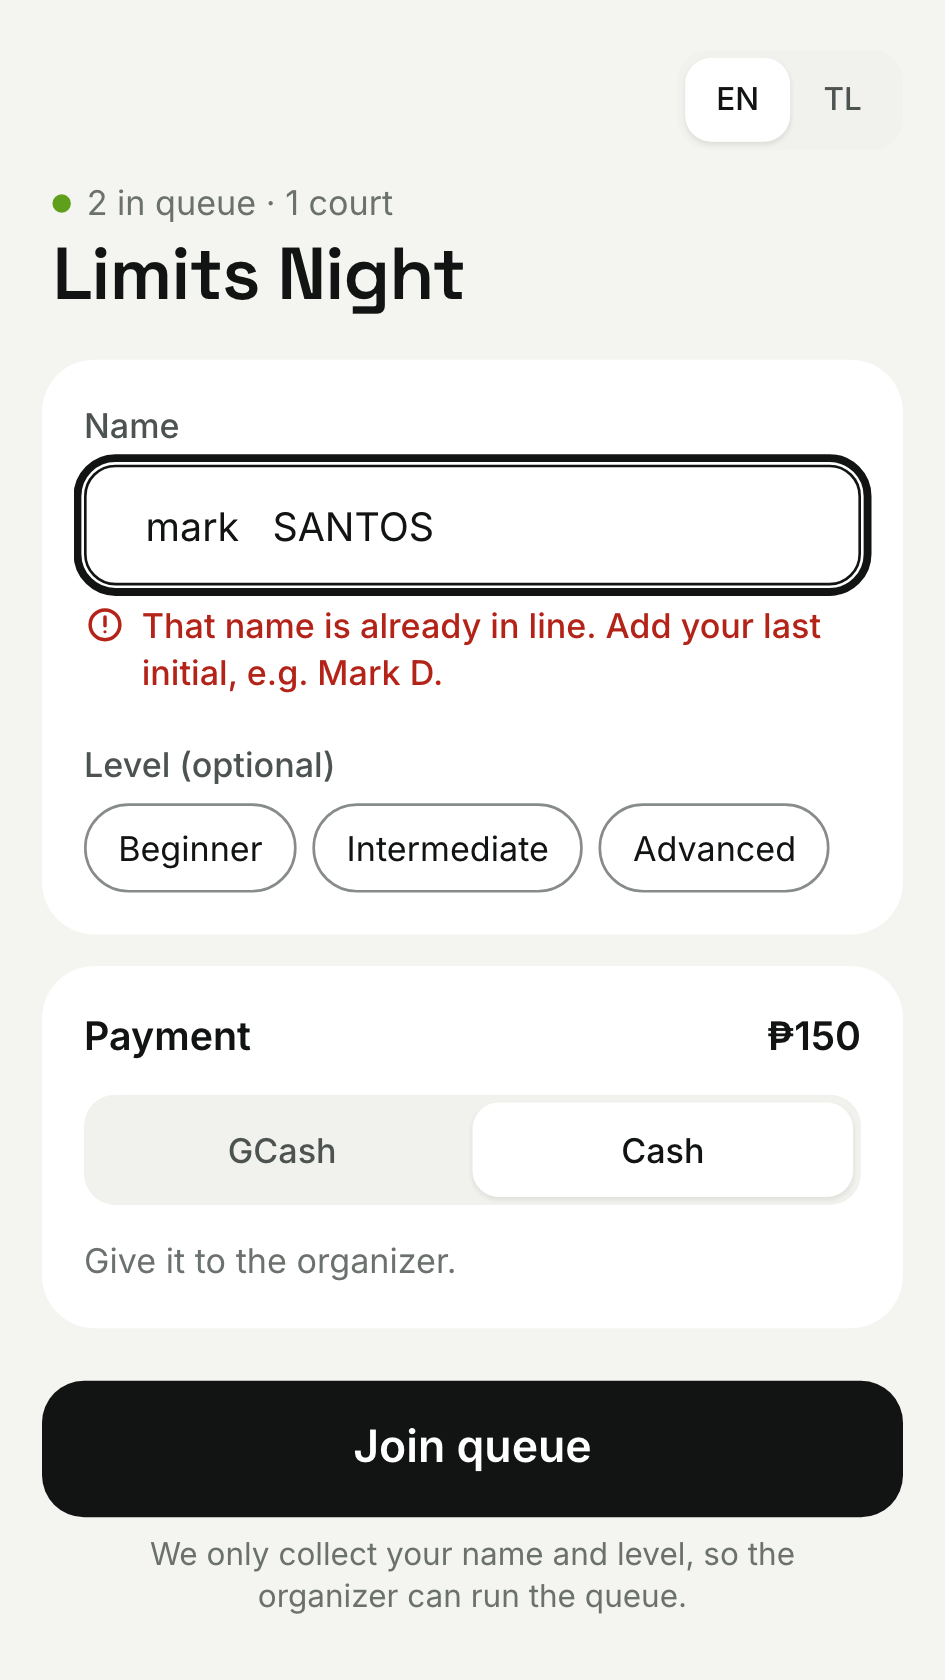
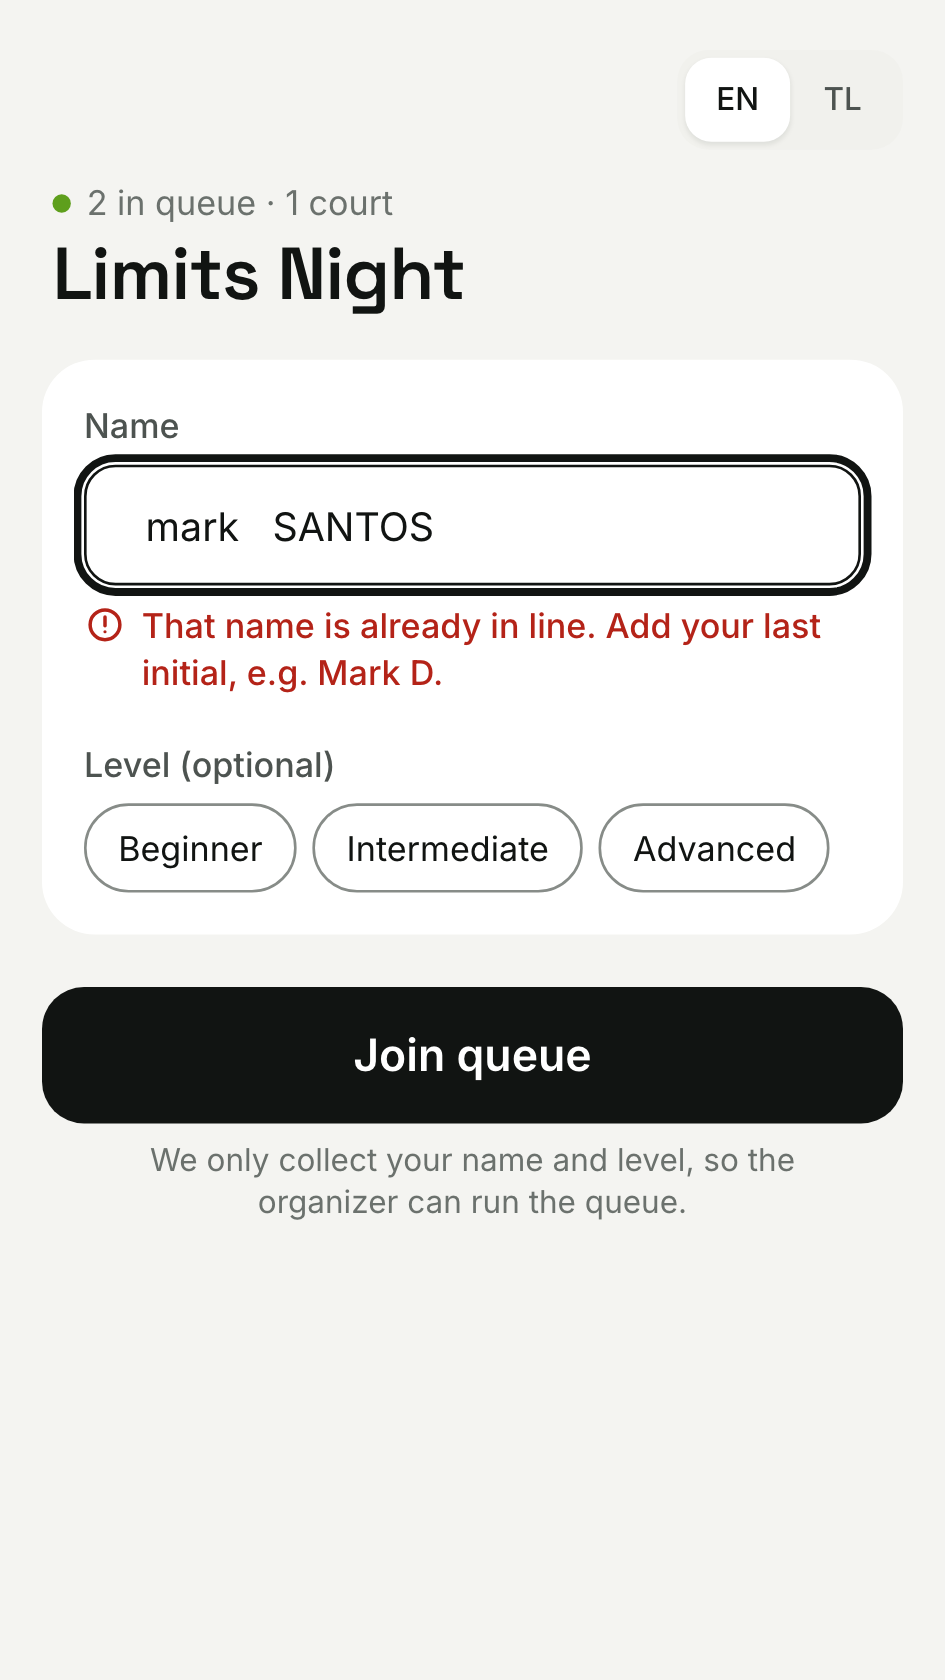
QA-06: no payment details in the code preview; codes can be 8 characters
The public check-in preview returned the club's GCash name and number (and
the fee) to anyone holding a 6-character code, and codes can be guessed at
about 750 per second.

- checkin_preview returns null for fee, pay_first, gcash_name and
  gcash_number (same columns and signature). Players see them on My place
  after check-in, where they send the GCash reference; the check-in page
  no longer has a payment step (BR13 now happens after joining).
- Codes: 31 unambiguous characters. 6 chars = 887,503,681 codes; 8 chars =
  852,891,037,441 (about 961x more guesses per hit). New join and club
  codes follow private.code_settings (6 or 8, starts at 6 because the app on
  main accepts only 6). Format checks accept 6 or 8; existing codes keep
  working. After deploying this app, switch with:
    update private.code_settings set join_code_length = 8, entry_code_length = 8;
- normalizeJoinCode accepts 6 or 8 characters.

Tests: pgTAP 20_qa06_codes (13_payments updated for the null preview);
unit qr.test.ts; e2e payments/dry-run/courts-alerts and the other check-in
flows now pay on My place.

Changed region(s): [[0.0307, 0.5881, 0.982, 0.7738], [0.0307, 0.8048, 0.982, 0.9595]]

diff --git a/e2e/payments.spec.ts b/e2e/payments.spec.ts
@@ -10,18 +10,29 @@ async function phone(browser: Browser): Promise<Page> {
   return page;
 }
 
-async function checkIn(player: Page, path: string, name: string, pay: { reference?: string; cash?: boolean }) {
+/**
+ * QA-06: the check-in page (open to anyone with the code) shows no payment
+ * details. After joining, My place shows the fee, the hold and the club's
+ * GCash, and takes the reference.
+ */
+async function checkIn(player: Page, path: string, name: string, pay: { reference?: string } = {}) {
   await player.goto(path);
-  await expect(player.getByRole("heading", { name: "Payment" })).toBeVisible();
-  await expect(player.getByText("₱150", { exact: true })).toBeVisible();
-  await expect(player.getByText("Pay before you can be called.")).toBeVisible();
-  await expect(player.getByText(/Juan Dela Cruz/)).toBeVisible();
+  await expect(player.getByRole("button", { name: "Join queue" })).toBeVisible();
+  await expect(player.getByRole("heading", { name: "Payment" })).toHaveCount(0);
+  await expect(player.getByText(/Juan Dela Cruz|0917 123 4567/)).toHaveCount(0);
   await player.getByLabel("Name", { exact: true }).fill(name);
-  if (pay.reference) await player.getByLabel("GCash reference no.").fill(pay.reference);
-  if (pay.cash) await player.getByRole("radio", { name: "Cash", exact: true }).check();
   await player.getByRole("button", { name: "Join queue" }).click();
   await expect(player.getByRole("heading", { level: 1, name: `Hi, ${name.split(" ")[0]}` })).toBeVisible();
   await expect(player.locator('[data-live-sync="connected"]')).toBeVisible();
+  await expect(player.locator("[data-payment]")).toContainText("Payment · ₱150");
+  await expect(player.getByText("You'll be skipped until you pay.")).toBeVisible();
+  if (pay.reference) {
+    await player.getByRole("button", { name: "Add GCash reference" }).click();
+    await expect(player.getByText(/Juan Dela Cruz/)).toBeVisible();
+    await expect(player.getByText("0917 123 4567")).toBeVisible();
+    await player.getByLabel("GCash reference no.").fill(pay.reference);
+    await player.getByRole("button", { name: "Send reference" }).click();
+  }
 }
 
 function paymentLine(player: Page) {
@@ -62,7 +73,7 @@ test("pay first: GCash (to check) gets called, cash is held until received on Pa
   await addWalkIn(organizer, "Cash Two", "Beginner", { choice: "Paid cash" });
 
   await organizer.getByRole("link", { name: "Show QR" }).click();
-  const path = new URL((await organizer.getByText(/\/j\/[A-Z2-9]{6}$/).textContent())!).pathname;
+  const path = new URL((await organizer.getByText(/\/j\/[A-Z2-9]{6}(?:[A-Z2-9]{2})?$/).textContent())!).pathname;
   await organizer.goto(`${courtsUrl}/queue`);
 
   // Ana pays by GCash (to check); Ben will pay cash (held).
@@ -70,8 +81,8 @@ test("pay first: GCash (to check) gets called, cash is held until received on Pa
   await checkIn(ana, path, "Ana Phone", { reference: "1234 5678 90" });
   await expect(paymentLine(ana)).toHaveText(/GCash · waiting for the organizer/);
   const ben = await phone(browser);
-  await checkIn(ben, path, "Ben Phone", { cash: true });
-  await expect(paymentLine(ben)).toHaveText(/Cash · give it to the organizer/);
+  await checkIn(ben, path, "Ben Phone");
+  await expect(paymentLine(ben)).toHaveText(/Not paid yet/);
   await expect(ben.getByText("You'll be skipped until you pay.")).toBeVisible();
 
   // Queue: unpaid players are On hold with "Unpaid"; Ana (to check) is not.
@@ -112,7 +123,7 @@ test("pay first: GCash (to check) gets called, cash is held until received on Pa
   // Remind copies the reminder; then Ben's cash is received.
   const unpaid = organizer.getByRole("region", { name: "Unpaid", exact: true });
   const benRow = unpaid.getByRole("group", { name: "Ben Phone" });
-  await expect(benRow.getByText("Paying cash")).toBeVisible();
+  await expect(benRow.getByText("Must pay before being called")).toBeVisible();
   await benRow.getByRole("button", { name: "Remind Ben Phone" }).click();
   await expect(status(organizer, "Reminder for Ben Phone copied.")).toBeVisible();
   expect(await organizer.evaluate(() => navigator.clipboard.readText())).toBe(
@@ -125,8 +136,8 @@ test("pay first: GCash (to check) gets called, cash is held until received on Pa
   // D18: "Undo" reverses the last Received (cash still chosen), then it's received again.
   await organizer.getByRole("button", { name: /^Undo \(\d+s\)$/ }).click();
   await expect(status(organizer, "Ben Phone's payment is back to how it was.")).toBeVisible();
-  await expect(paymentLine(ben)).toHaveText(/Cash · give it to the organizer/, { timeout: 2_000 });
-  await expect(benRow).toContainText("Paying cash");
+  await expect(paymentLine(ben)).toHaveText(/Not paid yet/, { timeout: 2_000 });
+  await expect(benRow).toContainText("Must pay before being called");
   await benRow.getByRole("button", { name: "Cash received from Ben Phone" }).click();
   await expect(paymentLine(ben)).toHaveText(/Paid/, { timeout: 2_000 });
   await expect(organizer.getByTestId("payment-counts")).toHaveText("4 paid · 1 to check · 1 unpaid · ₱150 each");
@@ -167,7 +178,7 @@ test("a free session has no payment step", async ({ page: organizer, browser }) 
   await expect(organizer).toHaveURL(/\/queue$/);
 
   await organizer.getByRole("link", { name: "Show QR" }).click();
-  const path = new URL((await organizer.getByText(/\/j\/[A-Z2-9]{6}$/).textContent())!).pathname;
+  const path = new URL((await organizer.getByText(/\/j\/[A-Z2-9]{6}(?:[A-Z2-9]{2})?$/).textContent())!).pathname;
   const player = await phone(browser);
   await player.goto(path);
   await expect(player.getByRole("button", { name: "Join queue" })).toBeVisible();

diff --git a/scripts/ui-audit/ui-audit.spec.ts b/scripts/ui-audit/ui-audit.spec.ts
@@ -71,19 +71,26 @@ async function phone(browser: Browser): Promise<Page> {
   return (await browser.newContext(PHONE)).newPage();
 }
 
+/** Check in; a GCash reference is sent on My place after joining (QA-06). "cash" just means: hasn't paid yet. */
 async function checkIn(player: Page, joinPath: string, name: string, pay: { reference?: string; cash?: boolean }, level?: string) {
   await player.goto(joinPath);
   await player.getByLabel("Name", { exact: true }).fill(name);
   if (level) await player.getByRole("radio", { name: level, exact: true }).check();
-  if (pay.reference) await player.getByLabel("GCash reference no.").fill(pay.reference);
-  if (pay.cash) await player.getByRole("radio", { name: "Cash", exact: true }).check();
   await player.getByRole("button", { name: "Join queue" }).click();
   await expect(player.getByRole("heading", { level: 1, name: `Hi, ${name.split(" ")[0]}` })).toBeVisible();
+  if (pay.reference) await sendReference(player, pay.reference);
+}
+
+async function sendReference(player: Page, reference: string) {
+  await player.getByRole("button", { name: "Add GCash reference" }).click();
+  await player.getByLabel("GCash reference no.").fill(reference);
+  await player.getByRole("button", { name: "Send reference" }).click();
+  await expect(player.locator('[data-payment="pending"]')).toBeVisible();
 }
 
 async function joinPathOf(organizer: Page, courtsUrl: string): Promise<string> {
   await organizer.getByRole("link", { name: "Show QR" }).click();
-  const joinPath = new URL((await organizer.getByText(/\/j\/[A-Z2-9]{6}$/).textContent())!).pathname;
+  const joinPath = new URL((await organizer.getByText(/\/j\/[A-Z2-9]{6}(?:[A-Z2-9]{2})?$/).textContent())!).pathname;
   await organizer.goto(courtsUrl);
   return joinPath;
 }
@@ -162,7 +169,7 @@ test("UI audit: seed a busy club and capture every screen", async ({ page: organ
   }).toPass({ timeout: 30_000 });
   const inviteUrl = (await inviteText.textContent())!;
   await organizer.goto("/settings/qr");
-  const clubQrPath = new URL((await organizer.getByText(/\/c\/[A-Z2-9]{6}$/).textContent())!).pathname;
+  const clubQrPath = new URL((await organizer.getByText(/\/c\/[A-Z2-9]{6}(?:[A-Z2-9]{2})?$/).textContent())!).pathname;
 
   const coOrganizer = await (await browser.newContext(PHONE)).newPage();
   await signInNewOrganizer(coOrganizer, uniqueEmail("audit-organizer"));
@@ -235,9 +242,9 @@ test("UI audit: seed a busy club and capture every screen", async ({ page: organ
   await ana.goto(joinPath);
   await expect(ana.getByRole("button", { name: "Join as Ana Lopez" })).toBeVisible();
   await shot(ana, "22-checkin-pumila-bilang", "Check-in (returning: Join as)");
-  await ana.getByLabel("GCash reference no.").fill("1012 3456 7890");
   await ana.getByRole("button", { name: "Join as Ana Lopez" }).click();
   await expect(ana.getByRole("heading", { level: 1, name: "Hi, Ana" })).toBeVisible();
+  await sendReference(ana, "1012 3456 7890");
 
   const ben = await phone(browser);
   await ben.goto(joinPath);

diff --git a/e2e/fewer-steps.spec.ts b/e2e/fewer-steps.spec.ts
@@ -17,7 +17,7 @@ async function openClubQr(organizer: Page) {
 
 /** The club QR link ("QR link"), as a path. */
 async function clubQrPath(organizer: Page): Promise<string> {
-  const link = organizer.getByRole("region", { name: "Club QR code" }).getByText(/\/c\/[A-Z2-9]{6}$/);
+  const link = organizer.getByRole("region", { name: "Club QR code" }).getByText(/\/c\/[A-Z2-9]{6}(?:[A-Z2-9]{2})?$/);
   return new URL((await link.textContent())!).pathname;
 }
 
@@ -61,7 +61,7 @@ test("club QR: prints, opens the live session, says when nothing is live, and ca
   await organizer.goto("/");
   await startSession(organizer, "Saturday Open Play", { courts: 1 });
   await player.goto(path);
-  await expect(player).toHaveURL(/\/j\/[A-Z2-9]{6}$/);
+  await expect(player).toHaveURL(/\/j\/[A-Z2-9]{6}(?:[A-Z2-9]{2})?$/);
   await expect(player.getByRole("heading", { level: 1, name: "Saturday Open Play" })).toBeVisible();
   await expect(player.getByRole("button", { name: "Join queue" })).toBeVisible();
 
@@ -167,21 +167,19 @@ test("a returning player checks in with one tap: Join as …", async ({ page: or
   await expect(player.getByRole("heading", { level: 1, name: "Last Week" })).toBeVisible();
   await player.getByLabel("Name", { exact: true }).fill("Rina Reyes");
   await player.getByRole("radio", { name: "Intermediate" }).check();
-  await player.getByRole("radio", { name: "Cash", exact: true }).check();
   await player.getByRole("button", { name: "Join queue" }).click();
   await expect(player.getByRole("heading", { level: 1, name: "Hi, Rina" })).toBeVisible();
   await endSession(organizer);
 
-  // This week: same phone, same QR. One tap (plus the payment choice, since there's a fee).
+  // This week: same phone, same QR. One tap (payment details are on My place after joining, QA-06).
   await organizer.goto("/");
   await startSession(organizer, "This Week", { courts: 1 });
   await player.goto(path);
   await expect(player.getByRole("heading", { level: 1, name: "This Week" })).toBeVisible();
   await expect(player.getByText("Intermediate")).toBeVisible();
   await expect(player.getByLabel("Name", { exact: true })).toHaveCount(0);
-  await expect(player.getByRole("heading", { name: "Payment" })).toBeVisible();
+  await expect(player.getByRole("heading", { name: "Payment" })).toHaveCount(0);
   await expect(player.getByRole("button", { name: "Not Rina Reyes?" })).toBeVisible();
-  await player.getByRole("radio", { name: "Cash", exact: true }).check();
   await player.getByRole("button", { name: "Join as Rina Reyes" }).click();
   await expect(player.getByRole("heading", { level: 1, name: "Hi, Rina" })).toBeVisible();
   await openTab(organizer, "Queue");

diff --git a/e2e/dry-run.spec.ts b/e2e/dry-run.spec.ts
@@ -26,19 +26,24 @@ test("dry run: a full session from members and phones to the summary and CSV", a
   await expect(organizer).toHaveURL(SESSION_URL);
   const courtsUrl = organizer.url();
   await organizer.getByRole("link", { name: "Show QR" }).click();
-  const path = new URL((await organizer.getByText(/\/j\/[A-Z2-9]{6}$/).textContent())!).pathname;
+  const path = new URL((await organizer.getByText(/\/j\/[A-Z2-9]{6}(?:[A-Z2-9]{2})?$/).textContent())!).pathname;
   await organizer.goto(courtsUrl);
 
-  // Phones first: 3 GCash (to check counts as paid), 1 cash (held until received).
+  // Phones first: 3 send a GCash reference on My place after joining (to check counts as paid),
+  // 1 doesn't pay yet (held until the organizer receives cash). Payment isn't on check-in (QA-06).
   const phones = new Map<string, Page>();
   for (const [index, name] of PHONES.entries()) {
     const phone = await (await browser.newContext()).newPage();
     await phone.goto(path);
     await phone.getByLabel("Name", { exact: true }).fill(name);
-    if (index < 3) await phone.getByLabel("GCash reference no.").fill(`90000000${index + 10}`);
-    else await phone.getByRole("radio", { name: "Cash", exact: true }).check();
     await phone.getByRole("button", { name: "Join queue" }).click();
     await expect(phone.getByRole("heading", { level: 1, name: `Hi, ${name.split(" ")[0]}` })).toBeVisible();
+    if (index < 3) {
+      await phone.getByRole("button", { name: "Add GCash reference" }).click();
+      await phone.getByLabel("GCash reference no.").fill(`90000000${index + 10}`);
+      await phone.getByRole("button", { name: "Send reference" }).click();
+      await expect(phone.locator('[data-payment="pending"]')).toBeVisible();
+    }
     phones.set(name, phone);
   }
   // 14 regulars, picked from members, paid in cash.
@@ -108,7 +113,7 @@ test("dry run: a full session from members and phones to the summary and CSV", a
   expect(lines).toHaveLength(20);
   expect(lines[1]).toMatch(/^Pia Phone,Not sure,Phone,\d+,To check,GCash,9000000010,\d{4}-\d{2}-\d{2} \d{2}:\d{2}$/);
   expect(lines.filter((l) => /^Member \d\d,Intermediate,Walk-in,\d+,Paid,Cash,,/.test(l))).toHaveLength(14);
-  expect(lines[4]).toMatch(/^Sol Phone,Not sure,Phone,0,Unpaid,Cash,,/);
+  expect(lines[4]).toMatch(/^Sol Phone,Not sure,Phone,0,Unpaid,,,/);
   // The peso cell has commas, so it is quoted.
   expect(lines[19]).toMatch(/^Total,,18 players,\d+,14 paid · 3 to check · 0 unpaid,"₱2,100 of ₱2,550",,$/);
 

diff --git a/e2e/players.spec.ts b/e2e/players.spec.ts
@@ -22,7 +22,7 @@ async function playerPhone(browser: Browser): Promise<Page> {
 
 async function joinLink(organizer: Page): Promise<string> {
   await organizer.getByRole("link", { name: "Show QR" }).click();
-  const link = (await organizer.getByText(/\/j\/[A-Z2-9]{6}$/).textContent())!;
+  const link = (await organizer.getByText(/\/j\/[A-Z2-9]{6}(?:[A-Z2-9]{2})?$/).textContent())!;
   await organizer.getByRole("link", { name: "Courts" }).click();
   return new URL(link).pathname;
 }
@@ -31,7 +31,6 @@ async function checkIn(player: Page, path: string, name: string) {
   await player.goto(path);
   await player.getByLabel("Name", { exact: true }).fill(name);
   // Phase 5 (BR13): with a fee, pick GCash or cash. These sessions don't use pay_first.
-  await player.getByRole("radio", { name: "Cash", exact: true }).check();
   await player.getByRole("button", { name: "Join queue" }).click();
   await expect(player).toHaveURL(new RegExp(`${path}/me$`));
   await expect(player.getByRole("heading", { level: 1, name: `Hi, ${name.split(" ")[0]}` })).toBeVisible();
@@ -106,8 +105,7 @@ test("a player checks in by link, gets called, swaps out, pauses, leaves, rejoin
   await expect(player.getByRole("heading", { level: 1, name: "Thanks for playing!" })).toBeVisible();
   await expect(queueRows(organizer).getByText("Pia Cruz")).toHaveCount(0, { timeout: 2_000 });
   await player.getByRole("link", { name: "Join again" }).click();
-  // D18: this phone is remembered, so re-joining is one tap (plus the payment choice).
-  await player.getByRole("radio", { name: "Cash", exact: true }).check();
+  // D18: this phone is remembered, so re-joining is one tap (payment is on My place, QA-06).
   await player.getByRole("button", { name: "Join as Pia Cruz" }).click();
   await expect(player.getByRole("heading", { level: 1, name: "Hi, Pia" })).toBeVisible();
   await expect(position(player)).toHaveText("2");

diff --git a/e2e/courts-alerts.spec.ts b/e2e/courts-alerts.spec.ts
@@ -10,7 +10,7 @@ async function phone(browser: Browser): Promise<Page> {
 
 async function joinPath(organizer: Page): Promise<string> {
   await organizer.getByRole("link", { name: "Show QR" }).click();
-  const path = new URL((await organizer.getByText(/\/j\/[A-Z2-9]{6}$/).textContent())!).pathname;
+  const path = new URL((await organizer.getByText(/\/j\/[A-Z2-9]{6}(?:[A-Z2-9]{2})?$/).textContent())!).pathname;
   await organizer.getByRole("link", { name: "Courts" }).click();
   await expect(organizer).toHaveURL(SESSION_URL);
   return path;
@@ -36,13 +36,17 @@ test("player Courts: who plays, who's next, holds, and 'You', live within 2 seco
   await addWalkIn(organizer, "Unpaid Uno", "Beginner", { choice: "Pay later" });
   const path = await joinPath(organizer);
 
-  // Mia checks in with GCash (to check counts as paid, BR14) and opens Courts.
+  // Mia checks in, sends a GCash reference on My place (to check counts as paid, BR14;
+  // payment isn't on the check-in page, QA-06) and opens Courts.
   const mia = await phone(browser);
   await mia.goto(path);
   await mia.getByLabel("Name", { exact: true }).fill("Mia Phone");
-  await mia.getByLabel("GCash reference no.").fill("9876 5432 10");
   await mia.getByRole("button", { name: "Join queue" }).click();
   await expect(mia.getByRole("heading", { level: 1, name: "Hi, Mia" })).toBeVisible();
+  await mia.getByRole("button", { name: "Add GCash reference" }).click();
+  await mia.getByLabel("GCash reference no.").fill("9876 5432 10");
+  await mia.getByRole("button", { name: "Send reference" }).click();
+  await expect(mia.locator('[data-payment="pending"]')).toBeVisible();
   await mia.getByRole("link", { name: "View courts" }).click();
   await expect(mia.getByRole("heading", { level: 1, name: "Courts" })).toBeVisible();
   await expect(mia.locator('[data-live-sync="connected"]').filter({ visible: true })).toHaveCount(1);

diff --git a/e2e/language.spec.ts b/e2e/language.spec.ts
@@ -42,7 +42,7 @@ test("player: the EN | TL switch on check-in, kept after reload, separate from t
   await signInWithNewClub(organizer, "langplayer", "Lang Player Club");
   await startSession(organizer, "Lang Night", { courts: 1 });
   await organizer.getByRole("link", { name: "Show QR" }).click();
-  const path = new URL((await organizer.getByText(/\/j\/[A-Z2-9]{6}$/).textContent())!).pathname;
+  const path = new URL((await organizer.getByText(/\/j\/[A-Z2-9]{6}(?:[A-Z2-9]{2})?$/).textContent())!).pathname;
 
   const player = await (await browser.newContext()).newPage();
   await player.goto(path);
@@ -62,7 +62,6 @@ test("player: the EN | TL switch on check-in, kept after reload, separate from t
 
   // Joining keeps the language on My place, which has the switch too.
   await player.getByLabel("Pangalan mo").fill("Tess Tagalog");
-  await player.getByRole("radio", { name: "Cash", exact: true }).check();
   await player.getByRole("button", { name: "Pumila na" }).click();
   await expect(player.getByRole("button", { name: "Pahinga muna" })).toBeVisible();
   await player.getByRole("radiogroup", { name: "Wika" }).getByRole("radio", { name: "English" }).click();

diff --git a/e2e/singles.spec.ts b/e2e/singles.spec.ts
@@ -36,13 +36,12 @@ test("singles: a doubles court and a singles court in winners stay", async ({ pa
   // Four walk-ins, then a phone player, then one more walk-in.
   for (const name of ["Ana", "Ben", "Carlo", "Dina"]) await addWalkIn(organizer, name);
   await organizer.getByRole("link", { name: "Show QR" }).click();
-  const path = new URL((await organizer.getByText(/\/j\/[A-Z2-9]{6}$/).textContent())!).pathname;
+  const path = new URL((await organizer.getByText(/\/j\/[A-Z2-9]{6}(?:[A-Z2-9]{2})?$/).textContent())!).pathname;
   await organizer.getByRole("link", { name: "Courts" }).click();
 
   const player = await (await browser.newContext()).newPage();
   await player.goto(path);
   await player.getByLabel("Name", { exact: true }).fill("Pia Cruz");
-  await player.getByRole("radio", { name: "Cash", exact: true }).check();
   await player.getByRole("button", { name: "Join queue" }).click();
   await expect(player.getByTestId("position")).toHaveText("5");
   await expect(player.locator('[data-live-sync="connected"]')).toBeVisible();

diff --git a/e2e/skeleton.spec.ts b/e2e/skeleton.spec.ts
@@ -104,7 +104,7 @@ test.describe("skeleton loading", () => {
     test.setTimeout(120_000);
     const courtsUrl = await seedClub(page);
     await page.getByRole("link", { name: "Show QR" }).click();
-    const joinPath = new URL((await page.getByText(/\/j\/[A-Z2-9]{6}$/).textContent())!).pathname;
+    const joinPath = new URL((await page.getByText(/\/j\/[A-Z2-9]{6}(?:[A-Z2-9]{2})?$/).textContent())!).pathname;
 
     await watch(page);
     await setDelay(context, page, DELAY_MS);
@@ -167,7 +167,6 @@ test.describe("skeleton loading", () => {
     const player = await playerContext.newPage();
     await player.goto(joinPath);
     await player.getByLabel("Name", { exact: true }).fill("Pia Cruz");
-    await player.getByRole("radio", { name: "Cash", exact: true }).check();
     await player.getByRole("button", { name: "Join queue" }).click();
     await expect(player.getByTestId("position")).toBeVisible();
     await watch(player);

diff --git a/src/lib/queue/qr.ts b/src/lib/queue/qr.ts
@@ -11,8 +11,12 @@ export function qrSvg(text: string): Promise<string> {
   });
 }
 
-/** Join codes: 6 characters without look-alikes (no 0, O, 1, I, L); case-insensitive. */
+/**
+ * Join and club codes: 6 or 8 characters without look-alikes (no 0, O, 1, I,
+ * L); case-insensitive. New codes become 8 characters once
+ * private.code_settings is switched (QA-06); 6-character codes keep working.
+ */
 export function normalizeJoinCode(raw: string): string | null {
   const code = raw.trim().toUpperCase();
-  return /^[ABCDEFGHJKMNPQRSTUVWXYZ2-9]{6}$/.test(code) ? code : null;
+  return /^(?:[ABCDEFGHJKMNPQRSTUVWXYZ2-9]{6}|[ABCDEFGHJKMNPQRSTUVWXYZ2-9]{8})$/.test(code) ? code : null;
 }

diff --git a/src/lib/queue/qr.test.ts b/src/lib/queue/qr.test.ts
@@ -8,7 +8,12 @@ describe("join codes and QR", () => {
     expect(normalizeJoinCode(" abc234 ")).toBe("ABC234");
   });
 
-  it.each(["ABC10O", "ABCDE", "ABCDEFG", "ABC-23", ""])("refuses %j", (code) => {
+  it("QA-06: accepts 8-character codes too (new codes), and still 6", () => {
+    expect(normalizeJoinCode(" abcd2345 ")).toBe("ABCD2345");
+    expect(normalizeJoinCode("ABC234")).toBe("ABC234");
+  });
+
+  it.each(["ABC10O", "ABCDE", "ABCDEFG", "ABCDEFGHJ", "ABCD10O2", "ABC-23", ""])("refuses %j", (code) => {
     expect(normalizeJoinCode(code)).toBeNull();
   });
 

diff --git a/e2e/queue.spec.ts b/e2e/queue.spec.ts
@@ -161,7 +161,7 @@ test.describe("queue engine, Courts and Queue tabs", () => {
       await expect(page.getByText(step)).toBeVisible();
     }
     await expect(page.getByText("Or go to")).toBeVisible();
-    const link = await page.getByText(/\/j\/[A-Z2-9]{6}$/).textContent();
+    const link = await page.getByText(/\/j\/[A-Z2-9]{6}(?:[A-Z2-9]{2})?$/).textContent();
     const code = link!.slice(-6);
     await expect(page.getByText(code, { exact: true })).toBeVisible();
     await expect(page.getByRole("button", { name: "Share link" })).toBeVisible();
